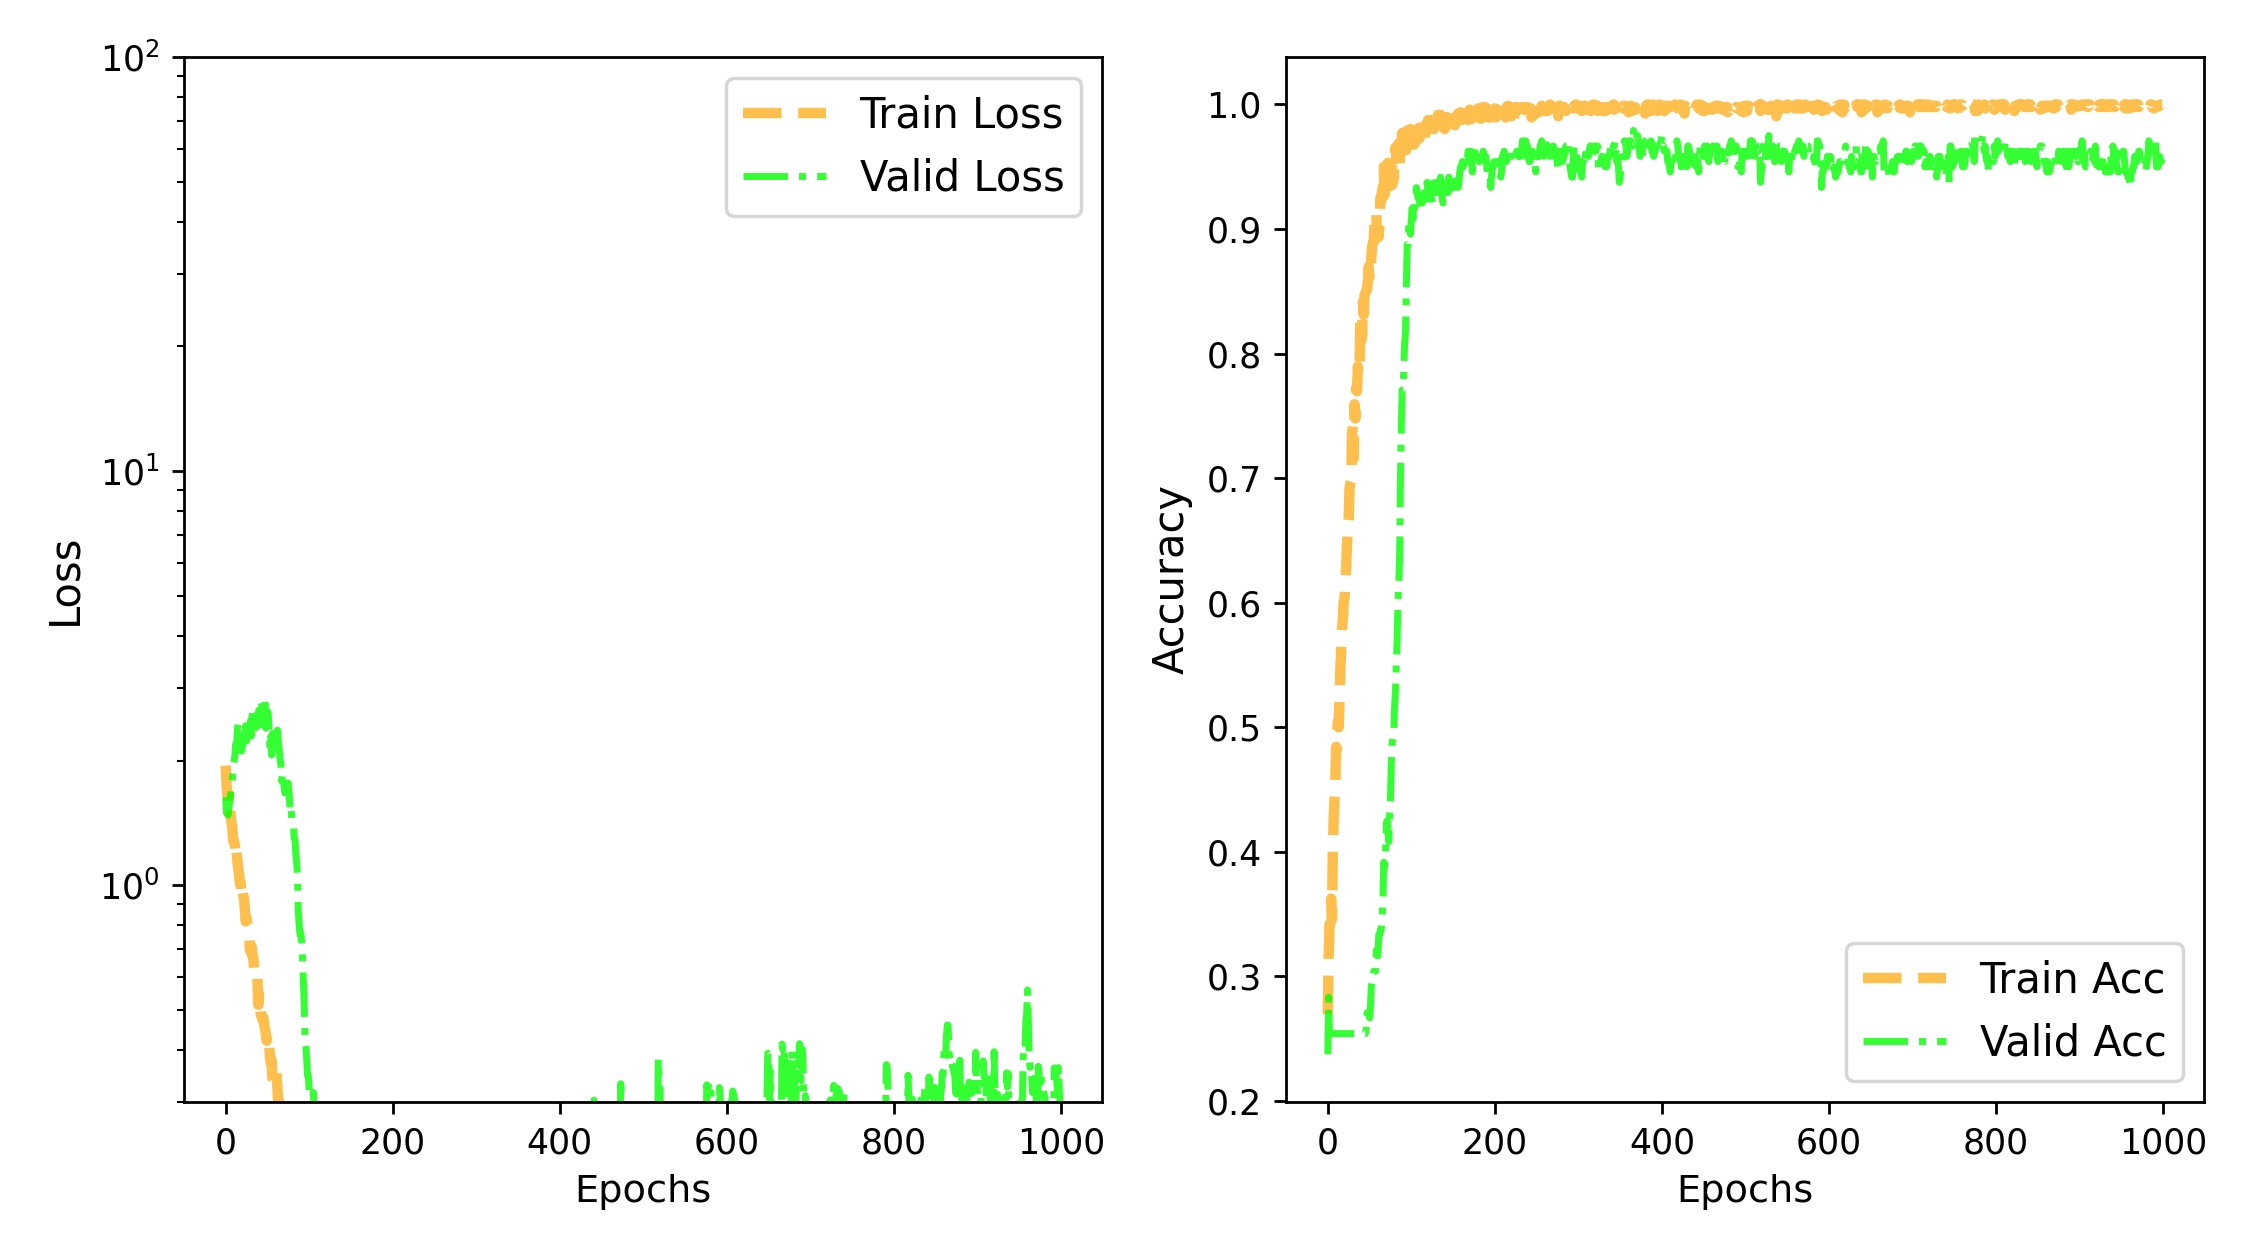
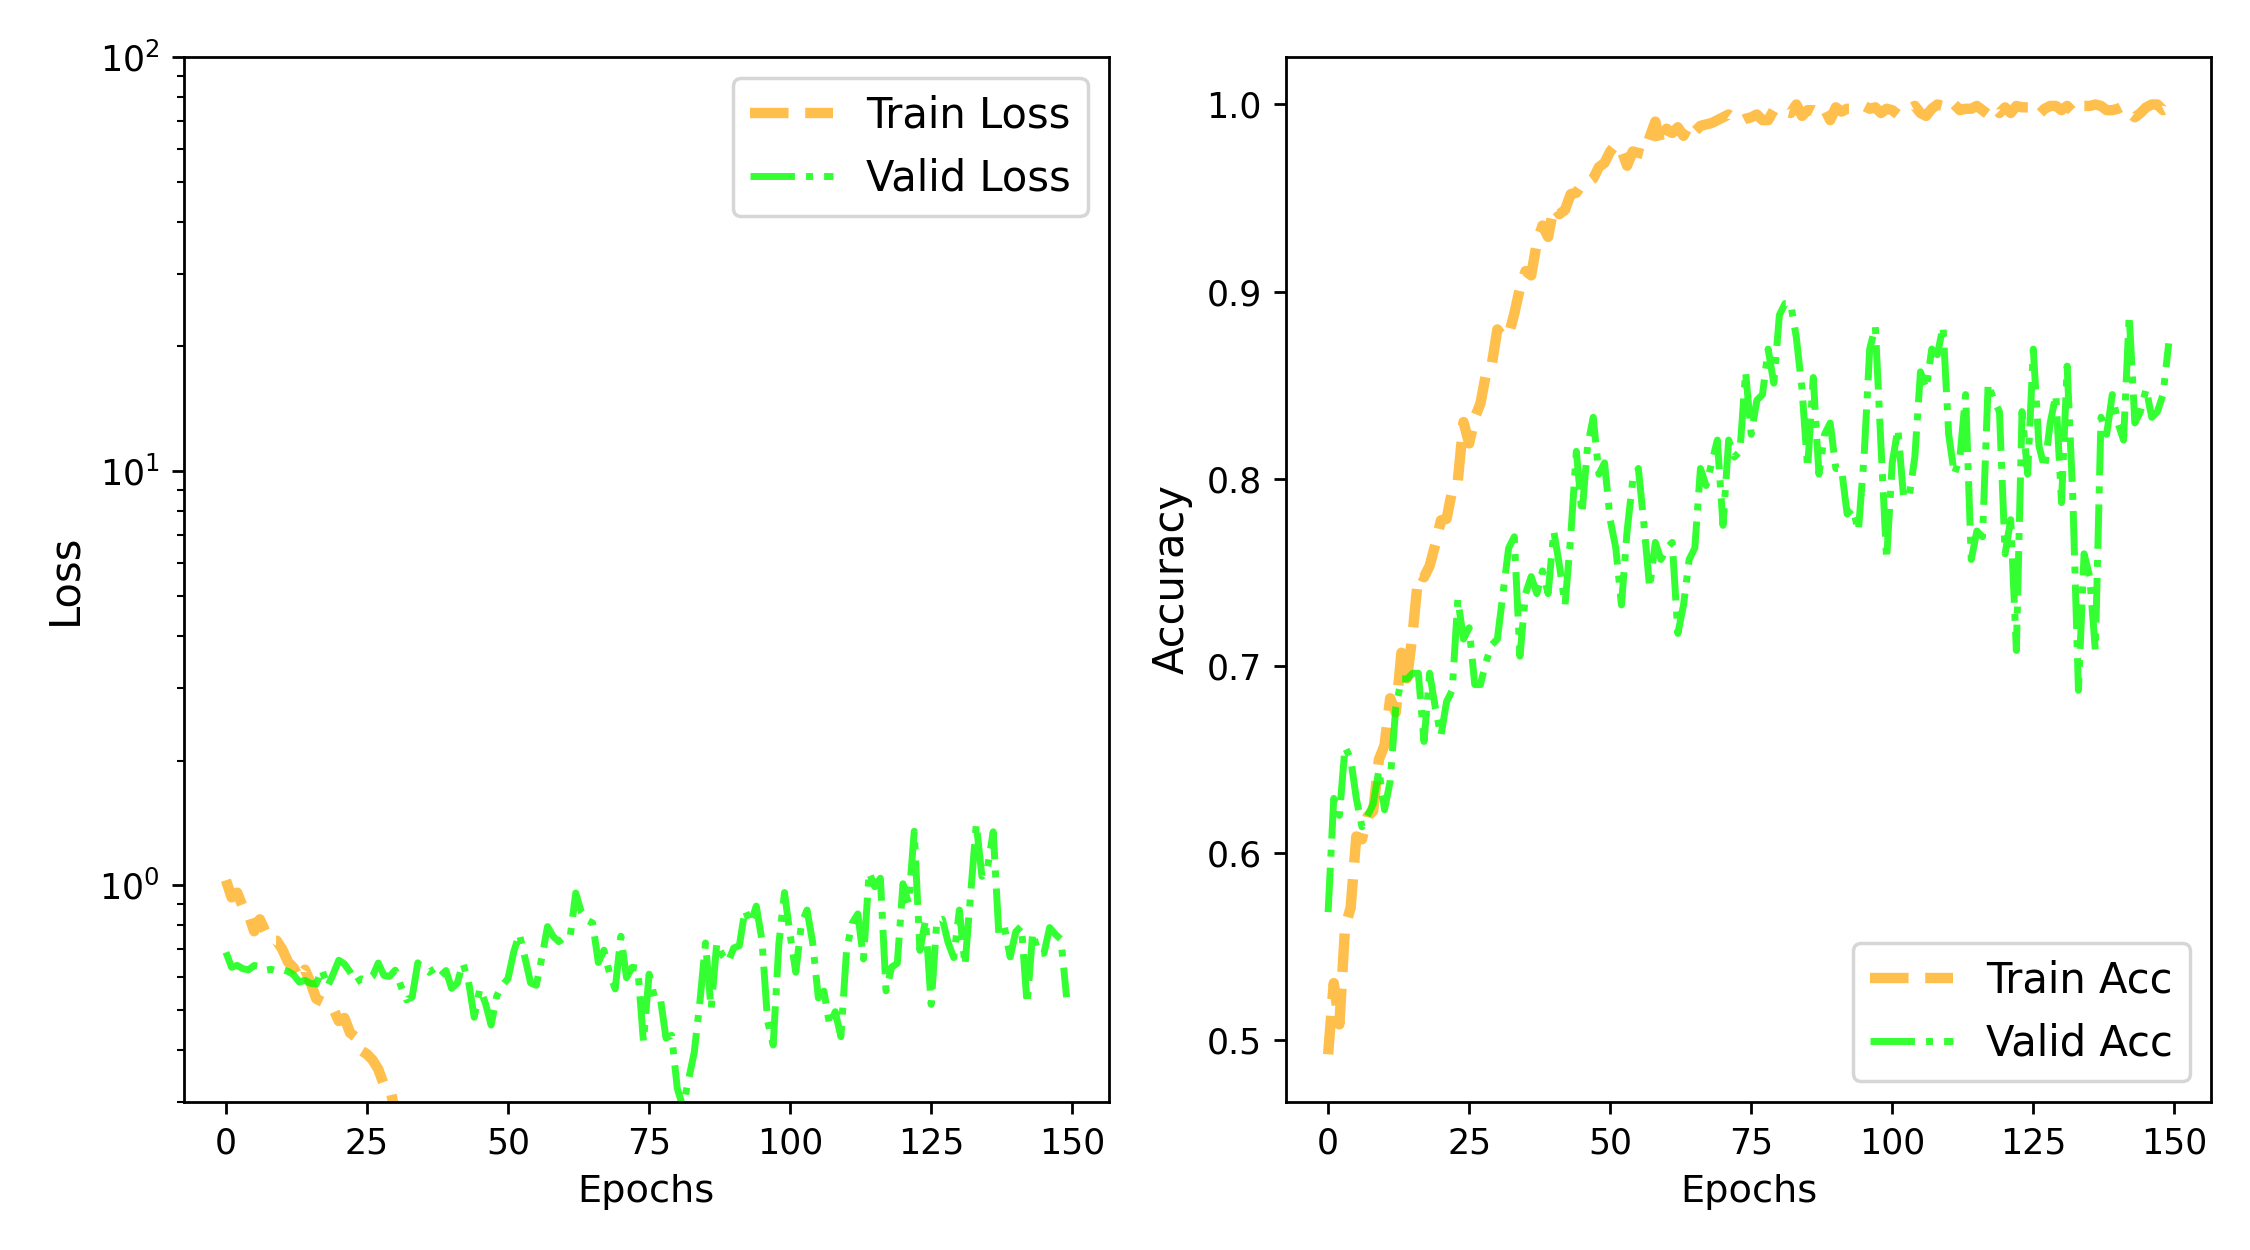
Restructured image folder

diff --git a/src/resnet50.py b/src/resnet50.py
@@ -1,0 +1,146 @@
+#Imports
+import matplotlib.pyplot as plt
+import numpy as np
+import tensorflow as tf
+import tensorflow.keras as K
+from sklearn.model_selection import train_test_split
+from keras.preprocessing.image import ImageDataGenerator
+
+# Gpu warning fix
+gpu_devices = tf.config.experimental.list_physical_devices('GPU')
+for device in gpu_devices:
+    tf.config.experimental.set_memory_growth(device, True)
+
+#config = tf.compat.v1.ConfigProto()
+#config.gpu_options.allow_growth = True
+#session = tf.compat.v1.Session(config=config)
+
+#tf.config.experimental.VirtualDeviceConfiguration(memory_limit=2048)
+
+
+
+
+# Settings
+setting_resolution = 125
+setting_batch_size = 64
+setting_epochs = 150
+setting_dataset_size = 1643
+
+print("\n=== IMPORT DATA =======================\n")
+
+# Fetch data
+# Note: This is a hacky way of getting all images/labels. The iterator is only used once, to get all data.
+#       The batch size is the size of the dataset, and _does not_ match the later one.
+datagen = ImageDataGenerator()
+train_it = datagen.flow_from_directory(
+    '../images/garment-dataset-towel-linen/train/',
+    color_mode='rgb',
+    target_size=(setting_resolution, setting_resolution),
+    class_mode='sparse',
+    batch_size=setting_dataset_size)
+print(train_it.batch_size)
+train_im, train_lab = train_it.next()
+
+# Normalize the images to pixel values (0, 1)
+#train_im = train_im/255.0
+train_im = tf.keras.applications.resnet50.preprocess_input(train_im)
+
+# Inspect imported data
+print("train_im type:\t\t", type(train_im))
+print("train_lab type:\t\t", type(train_lab))
+print("train_im shape:\t\t", train_im.shape)
+print("train_lab shape:\t", train_im.shape)
+
+# define class types
+#class_types = ['assorted-garments-blue', 'assorted-garments-green', 'bed-linen-striped', 'bed-linen-yellow']
+
+# Convert to categoricals
+print("Converting to categoricals...")
+train_lab_categorical = tf.keras.utils.to_categorical(train_lab, num_classes=2, dtype='uint8')
+
+# Split datasets
+print("Splitting datasets...")
+train_im, valid_im, train_lab, valid_lab = train_test_split(train_im,
+                                                            train_lab_categorical,
+                                                            test_size=0.20,
+                                                            stratify=train_lab_categorical, 
+                                                            random_state=40, shuffle=True)
+
+train_DataGen = tf.keras.preprocessing.image.ImageDataGenerator(zoom_range=0.1, 
+                                                                width_shift_range=0.01, 
+                                                                height_shift_range=0.01,
+                                                                horizontal_flip=False)
+ 
+valid_DataGen = tf.keras.preprocessing.image.ImageDataGenerator()
+
+train_set_conv = train_DataGen.flow(train_im, train_lab, batch_size=setting_batch_size) # train_lab is categorical
+valid_set_conv = valid_DataGen.flow(valid_im, valid_lab, batch_size=setting_batch_size) # so is valid_lab
+
+# Defining model
+print("\n=== DEFINE MODEL ======================\n")
+input_shape = K.Input(shape=(setting_resolution, setting_resolution, 3))
+res_model = K.applications.ResNet50(include_top=False, weights="imagenet", input_tensor=input_shape)
+
+# If freeze layers in model
+#for layer in res_model.layers:
+#    layer.trainable = False
+
+to_res = (setting_resolution, setting_resolution)
+model = K.models.Sequential()
+model.add(K.layers.Lambda(lambda image: tf.image.resize(image, to_res)))
+model.add(res_model)
+model.add(K.layers.Flatten())
+model.add(K.layers.BatchNormalization())
+model.add(K.layers.Dense(256, activation='relu'))
+model.add(K.layers.Dropout(0.5))
+model.add(K.layers.BatchNormalization())
+model.add(K.layers.Dense(128, activation='relu'))
+model.add(K.layers.Dropout(0.5))
+model.add(K.layers.BatchNormalization())
+model.add(K.layers.Dense(64, activation='relu'))
+model.add(K.layers.Dropout(0.5))
+model.add(K.layers.BatchNormalization())
+model.add(K.layers.Dense(2, activation='softmax'))
+
+check_point = K.callbacks.ModelCheckpoint(filepath="../models/resnet50-checkpoint.h5",
+                                          monitor="val_accuracy", mode="max", save_best_only=True)
+
+# Compile model
+model.compile(loss='categorical_crossentropy', optimizer=K.optimizers.RMSprop(lr=2e-5), metrics=['accuracy'])
+
+# Train model
+print("\n=== TRAIN MODEL =======================\n")
+resnet_train = model.fit(train_set_conv, batch_size=setting_batch_size, epochs=setting_epochs, verbose=1,
+                    validation_data=valid_set_conv, callbacks=[check_point])
+
+# Export model
+model.summary()
+model.save('../models/resnet50.h5', save_format='h5')
+
+# Optional: Plot train and validation curves
+verbose = True
+if verbose:
+    print("Plotting data...")
+    loss = resnet_train.history['loss']
+    v_loss = resnet_train.history['val_loss']
+    acc = resnet_train.history['accuracy']
+    v_acc = resnet_train.history['val_accuracy']
+    epochs = range(len(loss))
+    fig = plt.figure(figsize=(9, 5))
+    plt.subplot(1, 2, 1)
+    plt.yscale('log')
+    plt.plot(epochs, loss, linestyle='--', linewidth=3, color='orange', alpha=0.7, label='Train Loss')
+    plt.plot(epochs, v_loss, linestyle='-.', linewidth=2, color='lime', alpha=0.8, label='Valid Loss')
+    plt.ylim(0.3, 100)
+    plt.xlabel('Epochs', fontsize=11)
+    plt.ylabel('Loss', fontsize=12)
+    plt.legend(fontsize=12)
+    plt.subplot(1, 2, 2)
+    plt.plot(epochs, acc, linestyle='--', linewidth=3, color='orange', alpha=0.7, label='Train Acc')
+    plt.plot(epochs, v_acc, linestyle='-.', linewidth=2, color='lime', alpha=0.8, label='Valid Acc')
+    plt.xlabel('Epochs', fontsize=11)
+    plt.ylabel('Accuracy', fontsize=12)
+    plt.legend(fontsize=12)
+    plt.tight_layout()
+    plt.savefig('../export/train_acc.png', dpi=250)
+    plt.show()

diff --git a/src/test-neural-net.py b/src/test-neural-net.py
@@ -36,22 +36,22 @@ def conf_matrix(predictions):
 # create generator
 datagen = ImageDataGenerator()
 
-to_res = (100, 100)
+to_res = (125, 125)
 batch_size = 64
 
-test_it = datagen.flow_from_directory('../images/filtered-dataset/test/', color_mode='rgb', target_size=(100, 100), class_mode='sparse', batch_size=400)
+test_it = datagen.flow_from_directory('../images/garment-dataset-towel-linen/test/', color_mode='rgb', target_size=(125, 125), class_mode='sparse', batch_size=389)
 test_im, test_lab = test_it.next()
 
 test_im = test_im/255.0
 
-class_types = ['assorted-garments-blue', 'assorted-garments-green', 'bed-linen-striped', 'bed-linen-yellow']
+class_types = ['assorted-garments-blue', 'assorted-garments-green']
 
 # check the shape of the data
 print("shape of images and labels array: ", test_im.shape, test_lab.shape)
 
-test_lab_categorical = tf.keras.utils.to_categorical(test_lab, num_classes=4, dtype='uint8')
+test_lab_categorical = tf.keras.utils.to_categorical(test_lab, num_classes=2, dtype='uint8')
 
-model = load_model('../models/Keras-res-net50.h5')
+model = load_model('../models/resnet50.h5')
 
 pred_class_resnet50 = model.predict(test_im)
 

diff --git a/src/build-server.py b/src/build-server.py
@@ -20,13 +20,13 @@ imgs = tf.reshape(imgs, (-1, 100, 100, 3)) # reshape them
 img_float = tf.cast(imgs, dtype=tf.float32) / 255 # - 0.5 # and convert them to floats
 
 to_res = (100, 100)
-model = load_model('resnet50.h5', compile=False) # load the keras model
+model = load_model('../models/resnet50.h5', compile=False) # load the keras model
 
 w = model.get_weights() # save weights to be sure that they are not messed up by the global and local initialization later on
 
 output = model(img_float) # Stack the keras model on top of the tensorflow graph -> the efficient net model is accepting base64 encoded images as a string
 
-builder = tf.saved_model.builder.SavedModelBuilder('resnet50-server')
+builder = tf.saved_model.builder.SavedModelBuilder('resnet50-server/1')
 
 tensor_info_input = tf.saved_model.utils.build_tensor_info(string_inp)
 tensor_info_output = tf.saved_model.utils.build_tensor_info(output)

diff --git a/src/classify-model.py b/src/classify-model.py
@@ -40,10 +40,11 @@ def run_example():
     input_arr = load_image(str(sys.argv[1]))
 
     # load model
-    model = load_model('./resnet50.h5')
+    model = load_model('../models/resnet50.h5')
     # predict the class
     result_prediction = model.predict(input_arr)
     labels = ["blue", "green", "striped", "yellow"]
+    print("Result: ", result_prediction)
     print(labels[np.argmax(result_prediction)])
 
 

diff --git a/src/backup/resnet50-keras-implementation.py b/src/backup/resnet50-keras-implementation.py
@@ -90,4 +90,4 @@ model.compile(loss='categorical_crossentropy', optimizer=K.optimizers.RMSprop(lr
 resnet_train = model.fit(train_set_conv, batch_size=batch_size, epochs=150, verbose=1,
                     validation_data=valid_set_conv, callbacks=[check_point])
 
-model.save('./resnet50.h5', save_format='h5')
+model.save('./resnet50.h5', save_format='.h5')

diff --git a/src/classify-server.py b/src/classify-server.py
@@ -58,7 +58,8 @@ def run_example():
 
     labels = ["blue", "green", "striped", "yellow"]
     print("\n")
-    print(labels[np.argmax(predictions)])
+    print("Result: ", predictions)
+    print("Label: ", labels[np.argmax(predictions)])
 
 
 # entry point, run the example
